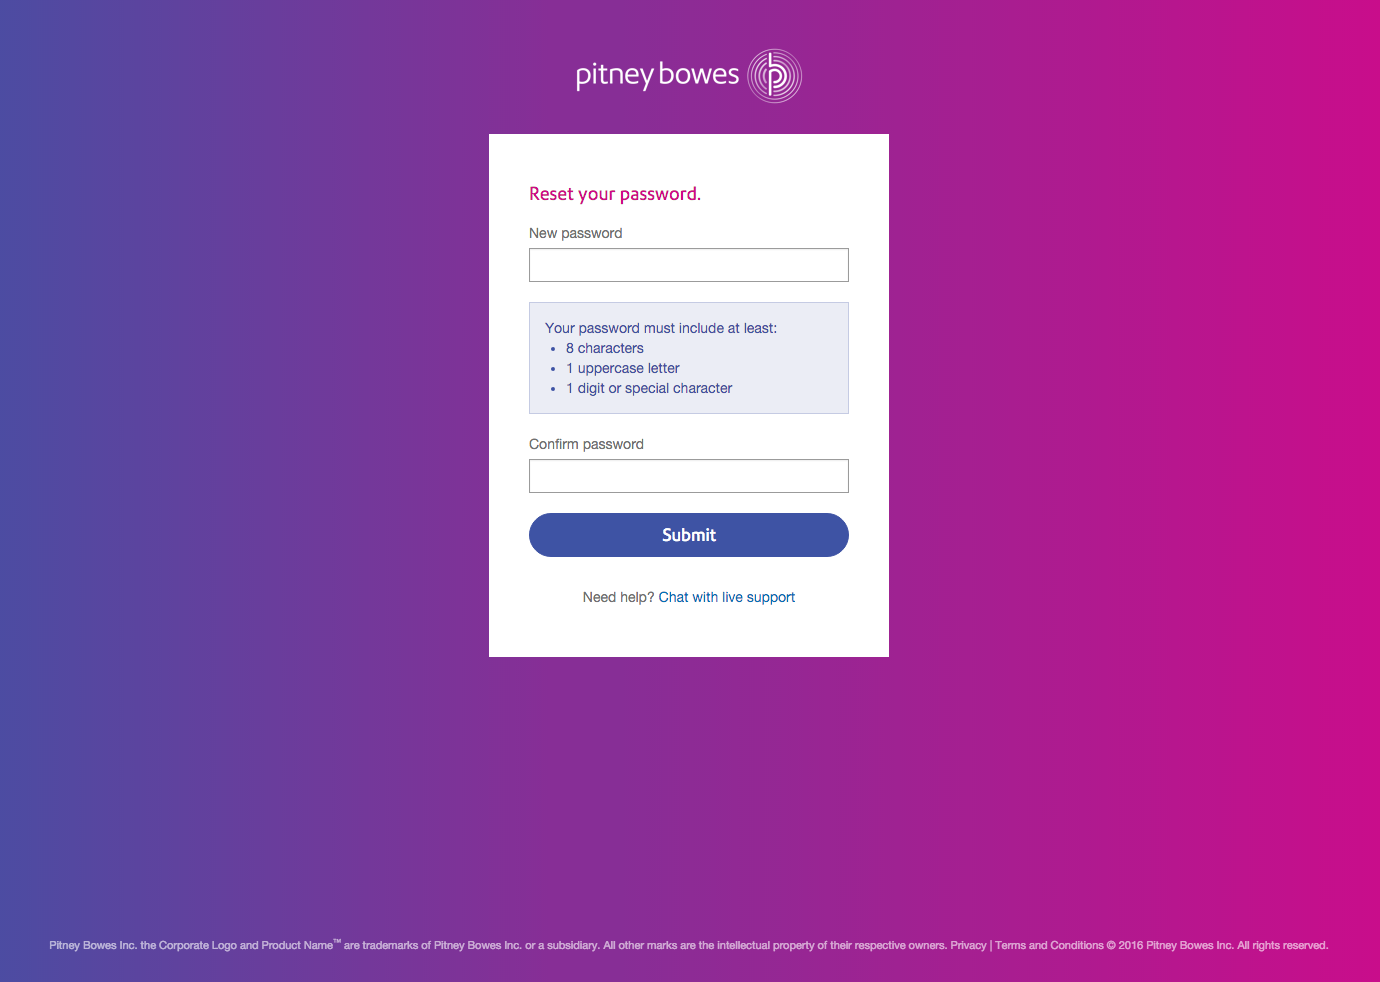
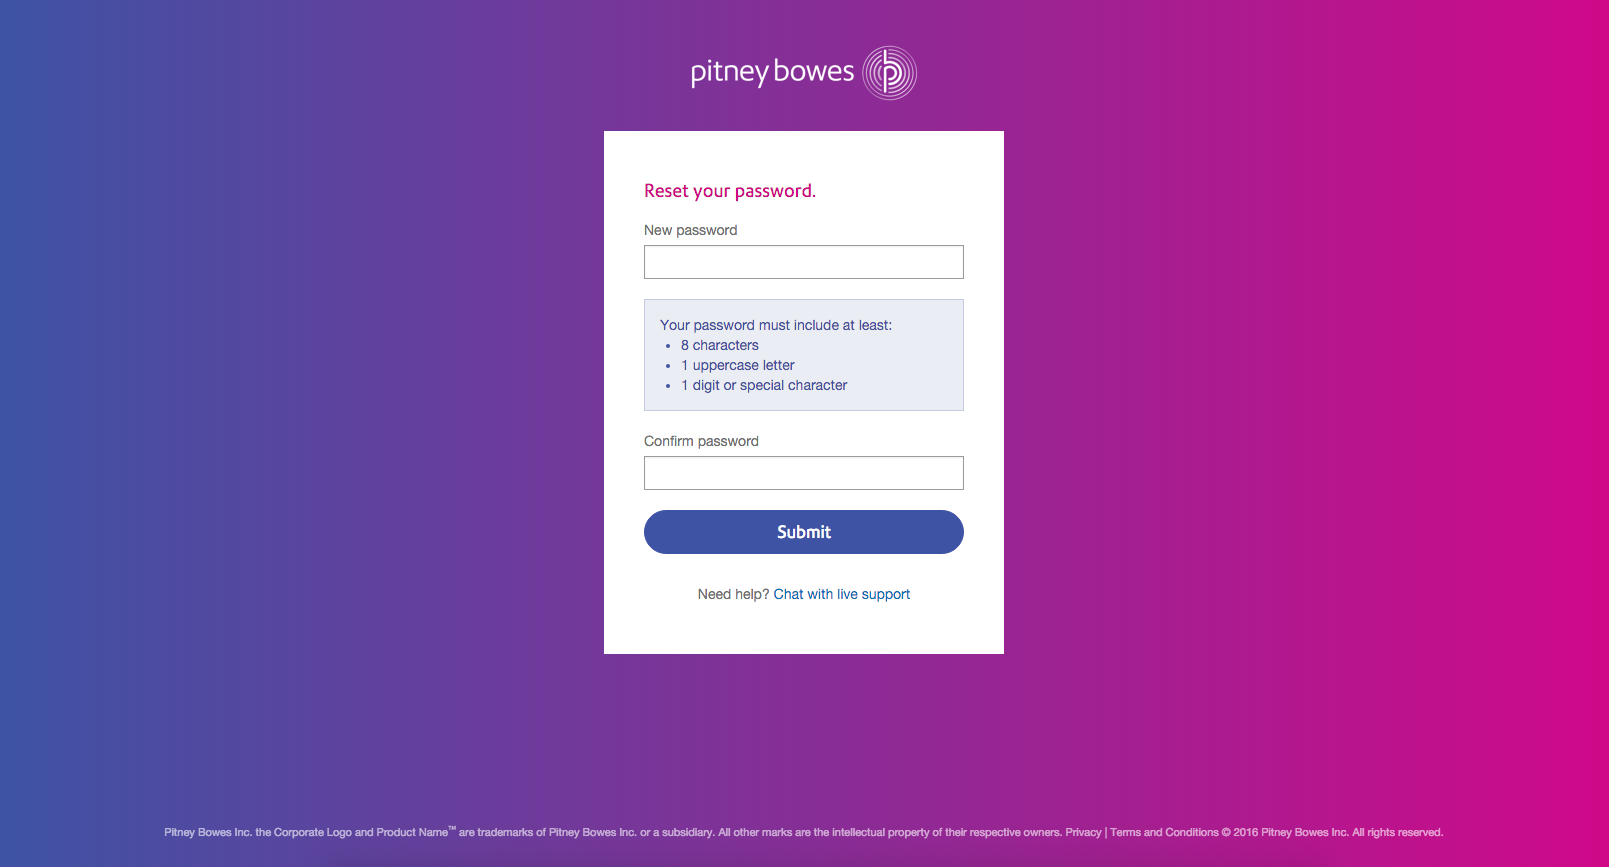
updated singin images with new gradient

Changed region(s): [[0.3428, 0.0311, 0.6543, 0.7785], [0.0312, 0.9343, 0.9659, 0.9654]]

diff --git a/app/modules/patterns/patterns.routes.js b/app/modules/patterns/patterns.routes.js
@@ -206,7 +206,7 @@
     })
 
     //this is Invitation Sign up  - PB Invitation with existing account
-    .state('patterns.signup-existingaccount', {
+    .state('patterns.signup-excistingaccount', {
       url: '/signup-existing-account',
       templateUrl: 'modules/patterns/templates/signup-existing-account.html',
       controller: 'SignInController as signin',

diff --git a/app/modules/patterns/sass/_signin.scss b/app/modules/patterns/sass/_signin.scss
@@ -2,7 +2,7 @@
 
 .signin {
   background-color: #254d9d;
-  background-image: linear-gradient(90deg, #4c4ca2 0%, #872e96 40%, #872e96 45%, #c90d8b 100%);
+  @extend %gradient;
 
   .signin-wrapper {
     height: 100vh;
